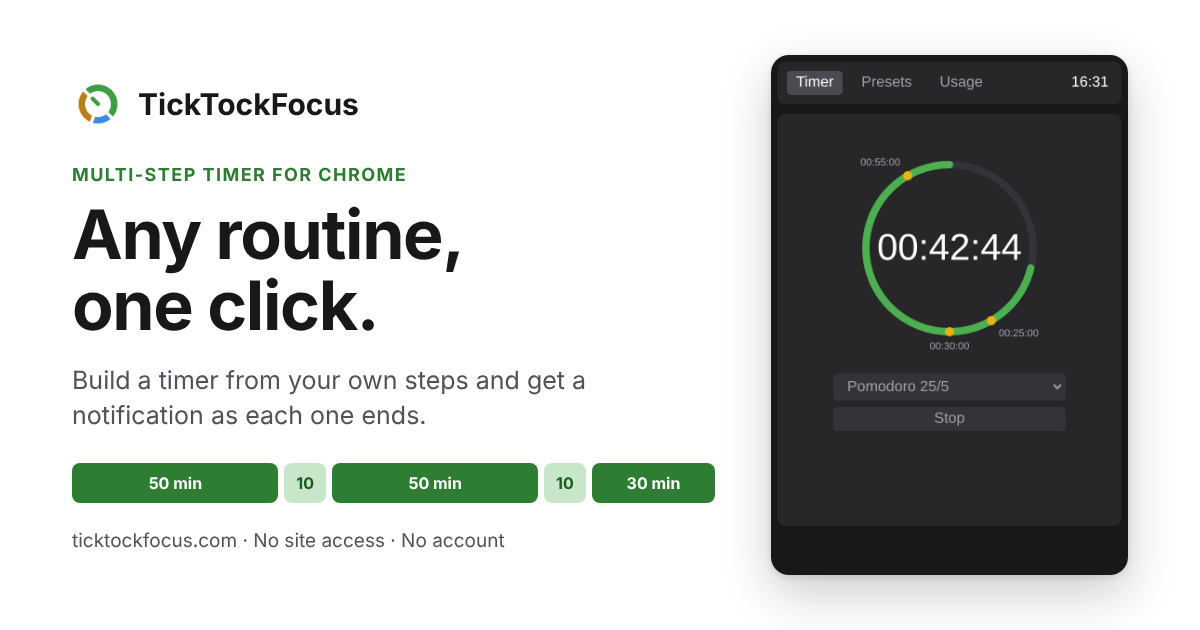
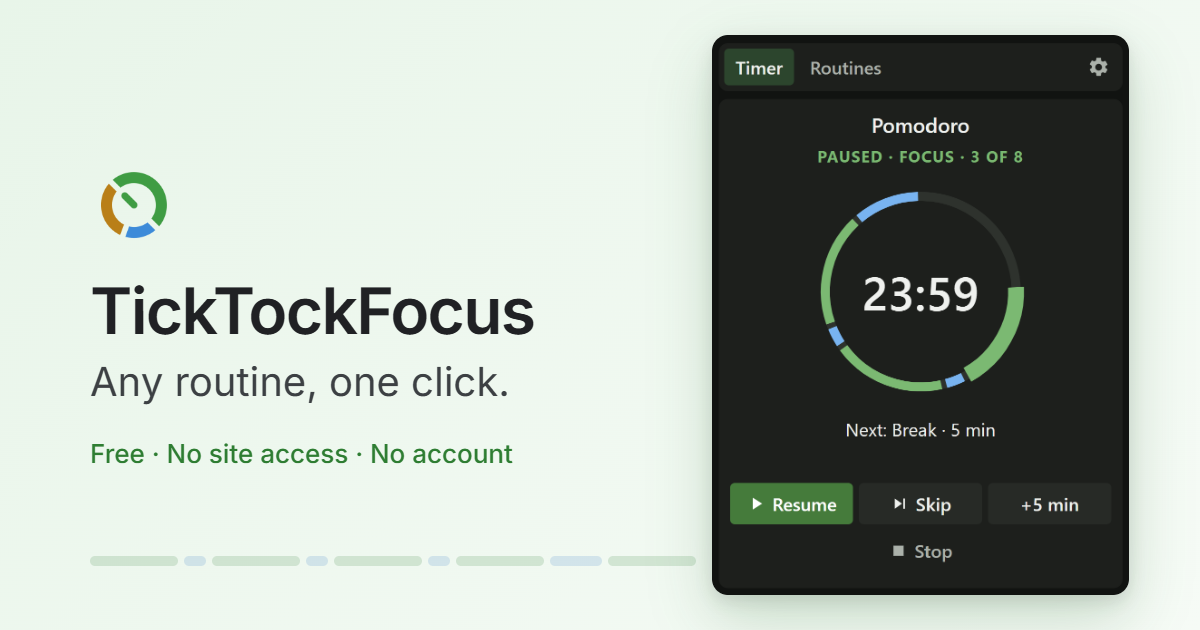
Implement structural updates and optimizations across multiple modules

diff --git a/index.html b/index.html
@@ -37,7 +37,7 @@
         "operatingSystem": "Chrome",
         "url": "https://ticktockfocus.com/",
         "image": "https://ticktockfocus.com/assets/icon-512.png",
-        "screenshot": "https://ticktockfocus.com/assets/popup-1.1.png",
+        "screenshot": "https://ticktockfocus.com/assets/popup-1.2.png",
         "downloadUrl": "https://chromewebstore.google.com/detail/nealkefeifpkmkbfcfbkffdgnlohjbae",
         "offers": {
           "@type": "Offer",

diff --git a/README.md b/README.md
@@ -15,7 +15,7 @@ Source of [ticktockfocus.com](https://ticktockfocus.com): the landing page and p
 | `assets/styles.css` | Shared styles: design tokens, light and dark themes, all components |
 | `assets/icon-*.png` | Site icon, copied from the extension |
 | `assets/og-image.png` | 1200×630 social preview card (Open Graph, Twitter) |
-| `assets/popup-1.1.png` | Screenshot of the extension popup, used in the structured data |
+| `assets/popup-1.2.png` | Screenshot of the extension popup, used in the structured data |
 | `CNAME`, `.nojekyll` | GitHub Pages configuration |
 
 ## Run locally
